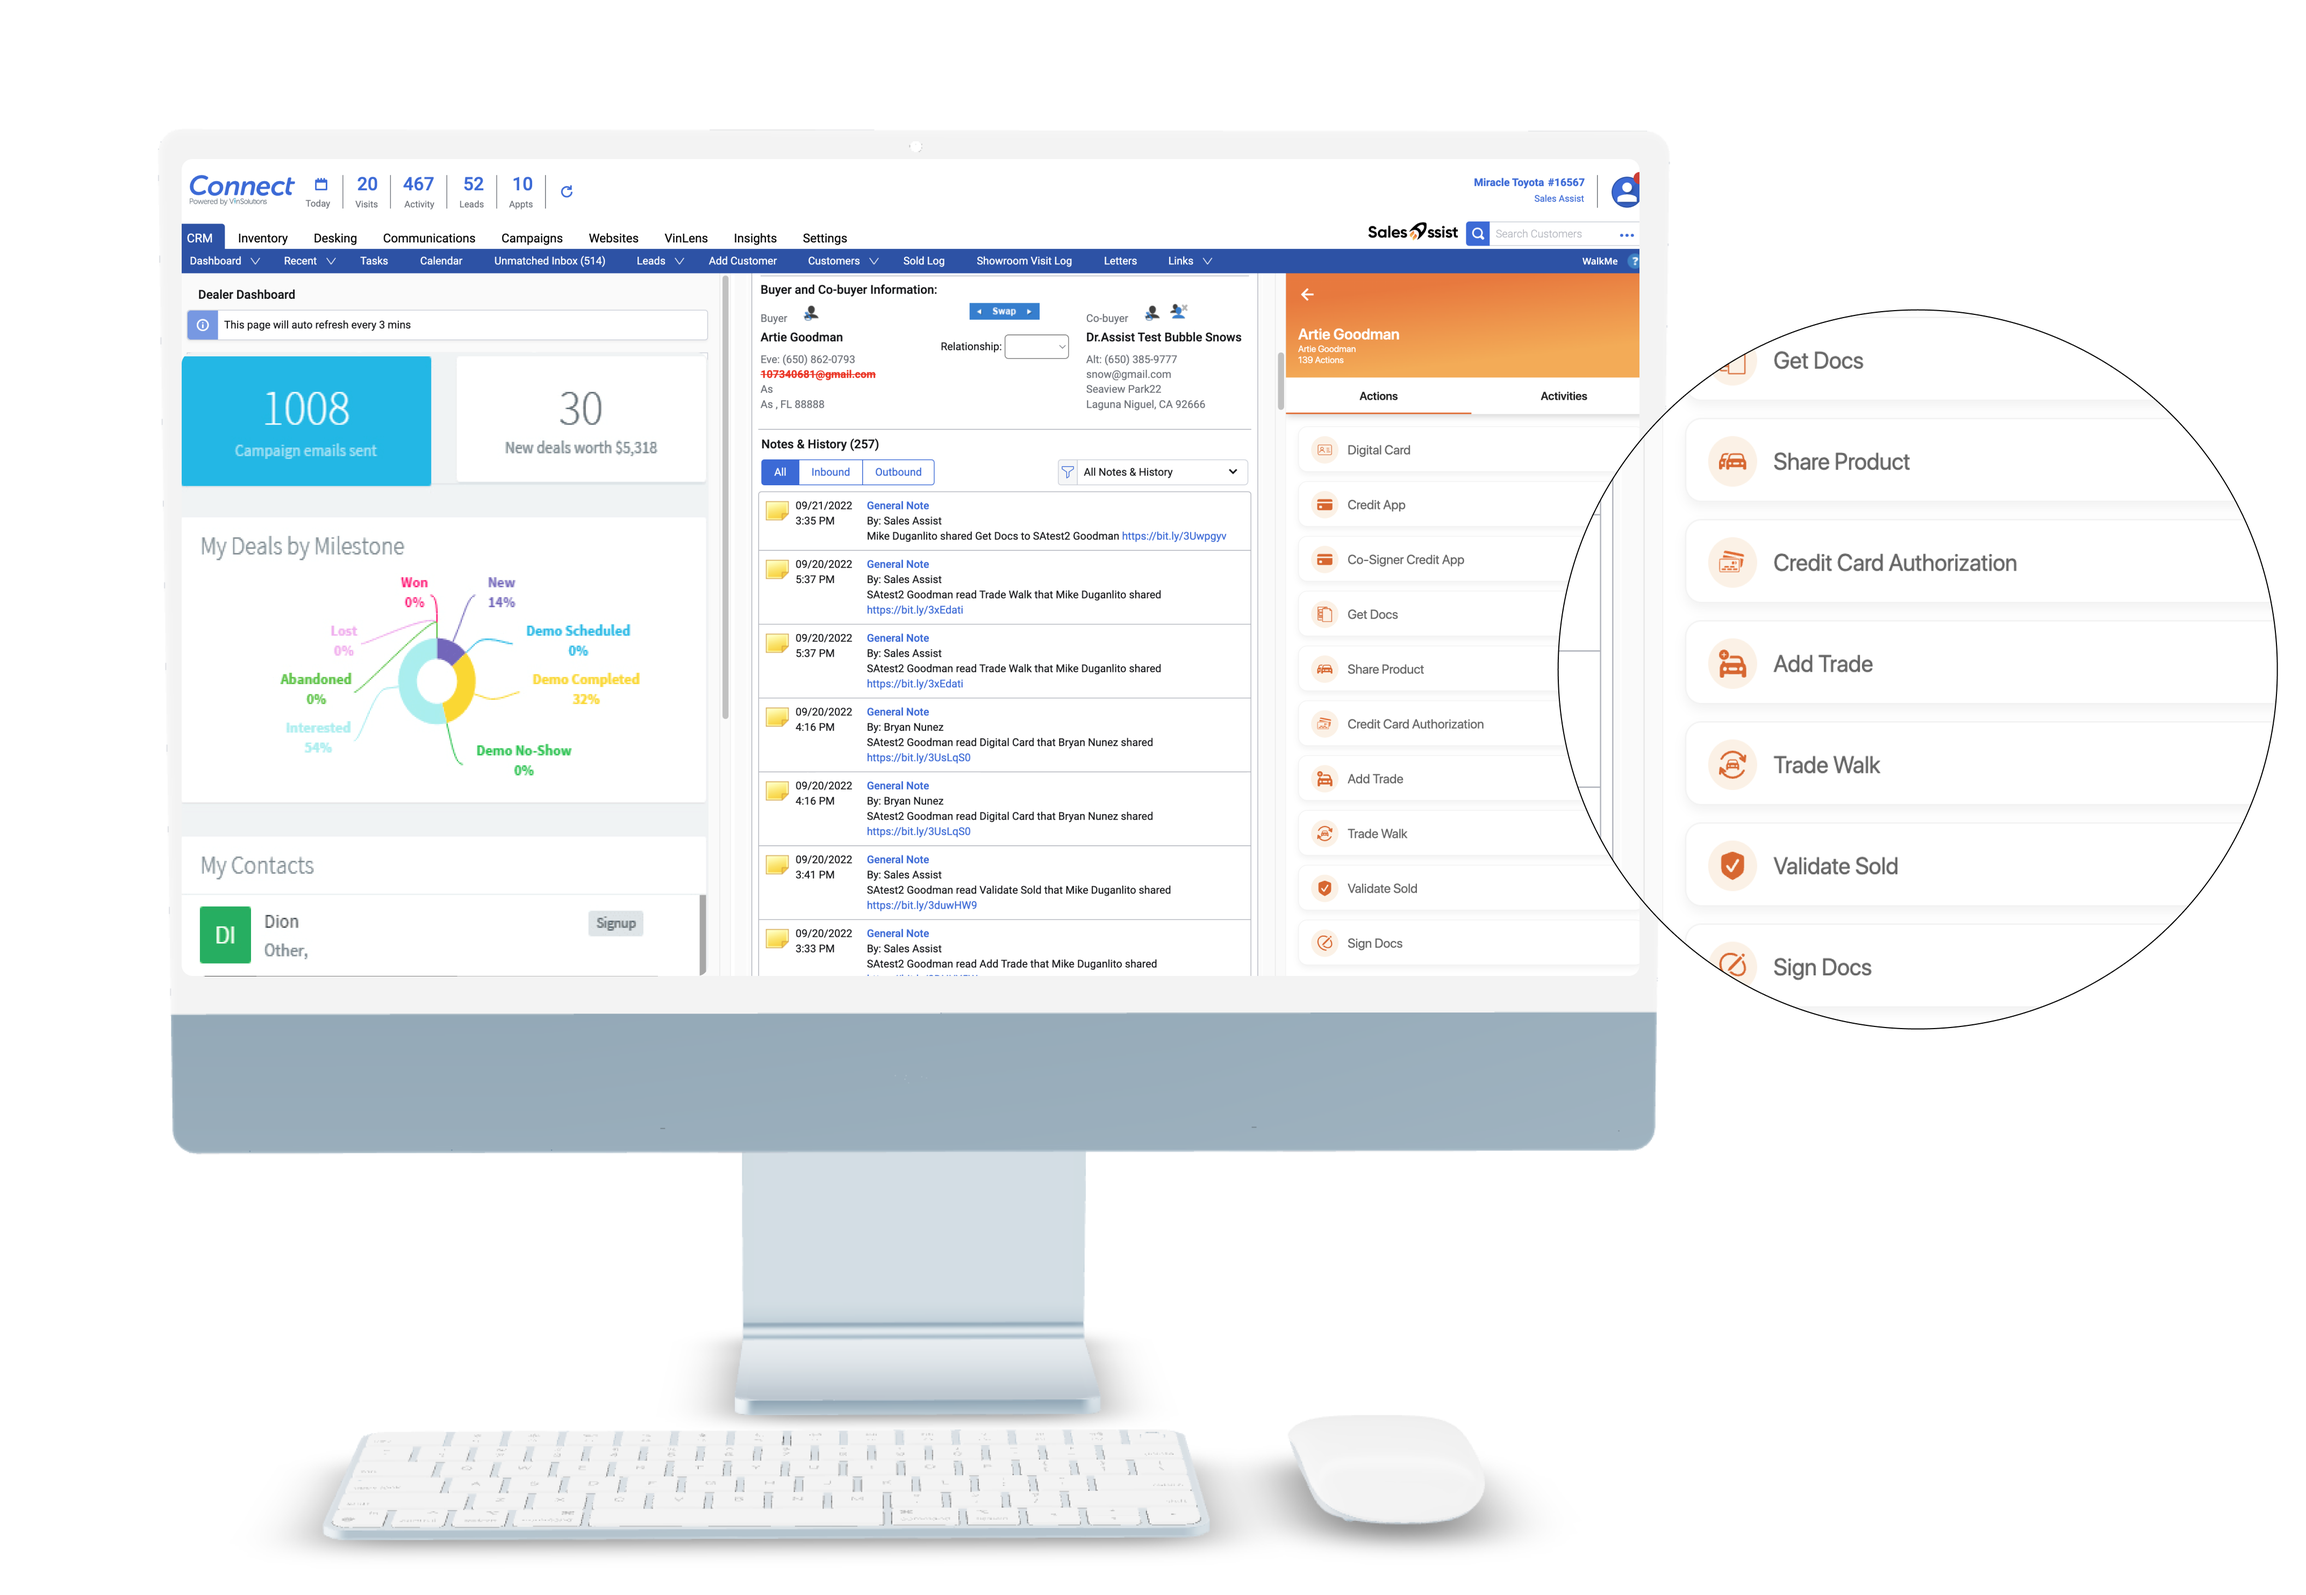
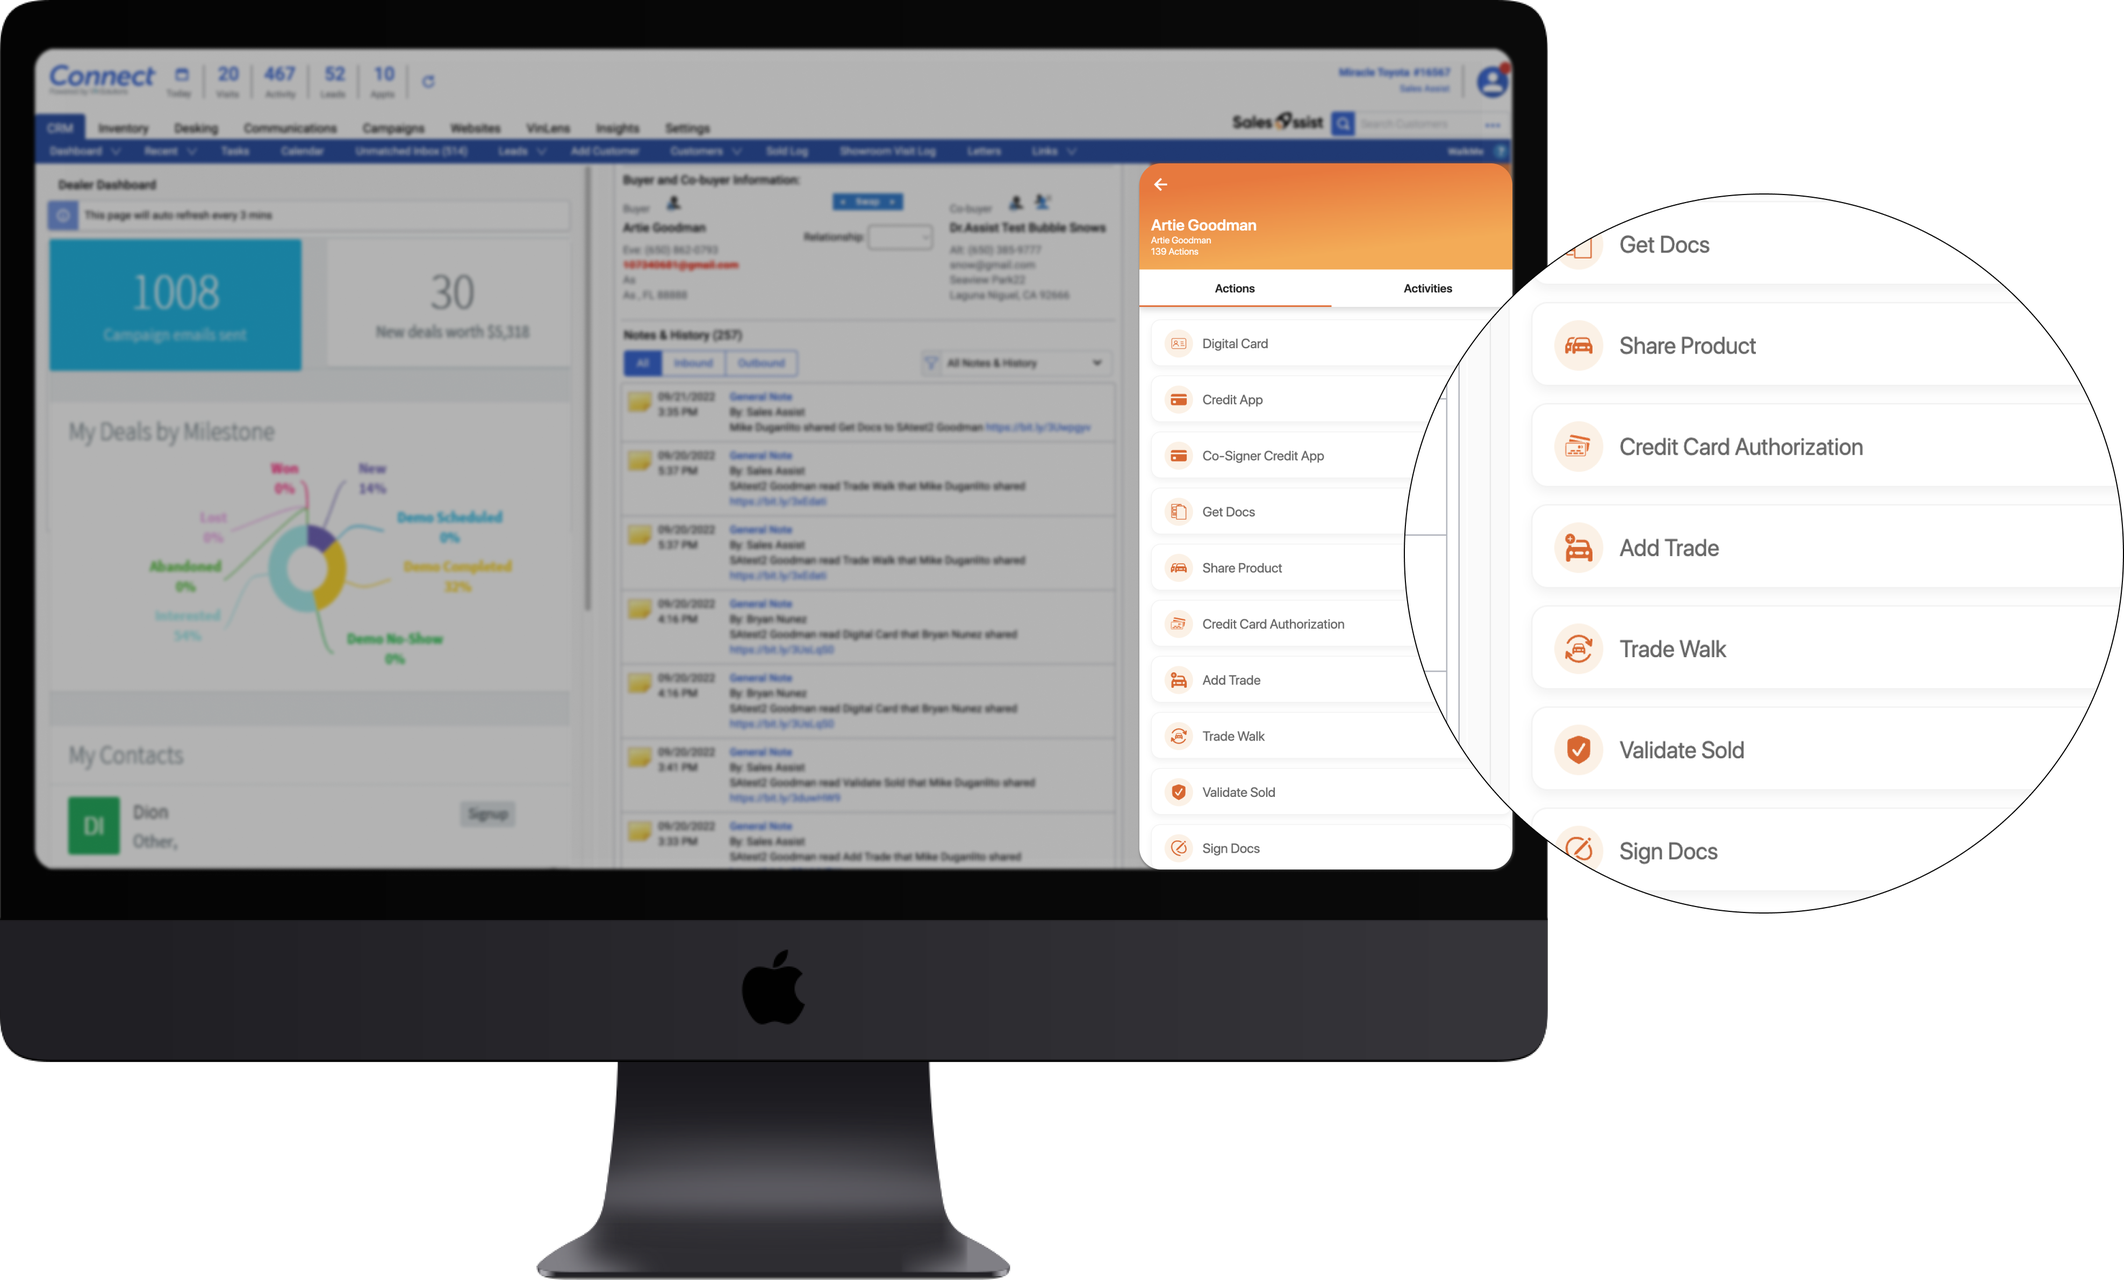
fix: several copy and image updates

diff --git a/src/sections/home-page/Cover/index.tsx b/src/sections/home-page/Cover/index.tsx
@@ -13,30 +13,29 @@ export const Hero: React.FC<HeroProps> = ({ heroData }) => {
   const words = useRef<string[]>(heroData.modules);
 
   useEffect(() => {
-    const time = setTimeout(() => {
-      if (currentModule === (words.current.length - 3)) {
-        words.current = [...words.current, ...heroData.modules]
+    const time = setInterval(() => {
+      divRef.current?.scrollTo(0, (divRef.current?.children[currentModule] as any)?.offsetTop || 0);
+      setCurrentModule(currentModule + 1);
+      if (currentModule === heroData.modules.length - 1) {
+        setCurrentModule(0);
       }
-      setCurrentModule(currentModule + 1)
-      divRef.current?.scrollTo(0, (divRef.current?.children[currentModule] as any).offsetTop)
     }, 2000);
 
     return () => {
-      clearTimeout(time);
+      clearInterval(time);
     }
-  }, [currentModule, heroData.modules, words]);
-
+  });
 
   return (
-    <header className='flex flex-col bg-white-soft h-full mx-auto pb-12 max-w-4xl'>
+    <header className='flex flex-col bg-white-soft h-full mx-auto pb-20 max-w-4xl'>
       <Section className='px-0'>
         <div className='flex justify-center flex-col gap-6'>
           <div className='flex flex-col pb-6'>
             <h1 className='text-4xl md:text-6xl lg:text-7xl'>{heroData.hero.upper_message}</h1>
             <div className='flex flex-row gap-4'>
               <h1 className='text-4xl md:text-6xl lg:text-7xl text-orange-normal font-normal'>{heroData.hero.lower_message}</h1>
-              <div ref={el => divRef.current = el} className='overflow-hidden gap-6 flex flex-col h-[40px] md:h-[65px] lg:h-[80px] slices'>
-                {words.current.map((m, i) => <h1 key={m + i} className='text-orange-normal text-4xl md:text-6xl lg:text-7xl slice'>{m}</h1>)}
+              <div ref={el => divRef.current = el} className='overflow-hidden relative gap-6 flex flex-col h-[40px] md:h-[65px] lg:h-[80px] slices'>
+                {heroData.modules.map((m, i) => <h1 key={m + i} className='text-orange-normal text-4xl md:text-6xl lg:text-7xl slice'>{m}</h1>)}
               </div>
             </div>
           </div>

diff --git a/src/sections/WhySalesAssist/SimplifySales.tsx b/src/sections/WhySalesAssist/SimplifySales.tsx
@@ -63,11 +63,11 @@ export const WhySalesAssistSimplifySales: React.FC<Section<WhySalesAssistSimplif
         <div className="flex-grow gap-6 md:gap-12 flex flex-col">
           <div className="p-2 flex w-full justify-between items-center gap-4">
             <button className={getClasses(0)} onClick={clickOnCard(0)}>1 <span className="hidden md:block">. {data.options.select}</span></button>
-            <div className="w-1/6 h-1 rounded-full bg-white-normal/25 overflow-hidden">
+            <div className="w-[10%] h-1 rounded-full bg-white-normal/25 overflow-hidden">
               {currentStep.current === 0 && <div style={{ transform: `translateX(${-progressLeft}%)` }} className='bg-orange-link w-full h-full rounded-full'></div>}
             </div>
             <button className={getClasses(1)} onClick={clickOnCard(1)}>2 <span className="hidden md:block">. {data.options.customize}</span></button>
-            <div className="w-1/6 h-1 rounded-full bg-white-normal/25 overflow-hidden">
+            <div className="w-[10%] h-1 rounded-full bg-white-normal/25 overflow-hidden">
               {currentStep.current === 1 && <div style={{ transform: `translateX(${-progressLeft}%)` }} className='bg-orange-link w-full h-full rounded-full'></div>}
             </div>
             <button className={getClasses(2)} onClick={clickOnCard(2)}>3 <span className="hidden md:block">. {data.options.add}</span></button>

diff --git a/src/sections/WhySalesAssist/Hero.tsx b/src/sections/WhySalesAssist/Hero.tsx
@@ -13,12 +13,12 @@ export const WhySalesAssistHero: React.FC<Section<WhySalesAssistHeroSection>> = 
           <h1 className='text-gray-primary md:text-4xl font-bold mb-6'>{data.title}</h1>
           <p className='mx-auto md:px-6 text-gray-secondary text-sm md:text-base max-w-5xl'>{data.desc}</p>
         </div>
-        <div className='relative overflow-x-auto overflow-y-hidden w-full flex gap-2 lg:items-center lg:justify-center pb-12'>
+        <div className='relative overflow-x-auto overflow-y-hidden w-full flex gap-5 lg:items-center lg:justify-center pb-12'>
           {/* list of things here */}
           {
             data.reasons.map(singleCard => {
-              return <div className='block lg:w-1/5' key={singleCard.code}>
-                <div className='p-4 rounded-md w-[15rem]  h-52 bg-white-normal'>
+              return <div key={singleCard.code}>
+                <div className='p-4 rounded-md w-[15rem] h-52 bg-white-normal'>
                   <div className='w-12 h-12 rounded-full'>
                     {buildIcon({ data: whySalesAssistHero, code: singleCard.code, fallback: <></> })}
                   </div>

diff --git a/src/sections/home-page/completion-tools/index.tsx b/src/sections/home-page/completion-tools/index.tsx
@@ -4,7 +4,7 @@ import { CompletionToolsScreenshot } from '@src/assets';
 
 export const CompletionTools: React.FC = () => {
   return (
-    <section className='section bg-white-normal'>
+    <section className='section bg-white-normal !pb-0'>
       <Section className='flex flex-col gap-6'>
         <h1>
           All the Sales Completion Tools Accessible Within Your CRM
@@ -13,9 +13,7 @@ export const CompletionTools: React.FC = () => {
           Have a complete arsenal of every possible sales completion tool in a single panel, right from your CRM.
           Whether you use our off-the-shelf completion tools, add your existing ones, or mix and match, we&rsquo;ve got you covered.
         </h4>
-        <div className='drop-shadow-sa text-center max-w-[1100px] mx-auto'>
-          <Image alt='Completion Tools' src={CompletionToolsScreenshot} className='rounded-[20px] ' />
-        </div>
+        <Image alt='Completion Tools' src={CompletionToolsScreenshot} className='rounded-[20px] ' />
       </Section>
     </section>
   )

diff --git a/src/components/Nav/index.tsx b/src/components/Nav/index.tsx
@@ -22,7 +22,7 @@ interface NavProps {
 export const Nav: React.FC<NavProps> = ({ className }) => {
     const { isDesktop } = useResponsive();
     const router = useRouter();
-    const classes = classNames('py-6 container max-w-[1200px] mx-auto lg:mb-[3em] flex-col lg:flex-row flex justify-between relative px-4 md:px-0', className)
+    const classes = classNames('py-6 container max-w-[1200px] mx-auto lg:mb-[5em] flex-col lg:flex-row flex justify-between relative px-4 md:px-0', className)
     const [isOpen, setIsOpen] = useState<boolean>(false);
     const handleSideBar = () => setIsOpen(!isOpen);
 

diff --git a/src/sections/WhySalesAssist/customers/index.tsx b/src/sections/WhySalesAssist/customers/index.tsx
@@ -17,7 +17,7 @@ export const Customers: React.FC = () => {
             verify, pay, choose, etc., whatever is needed to complete the sale.
           </h4>
         </div>
-        <div className='shrink-0 w-96 h-96 md:w-[440px] md:h-[360px] rounded-lg drop-shadow-sa overflow-hidden'>
+        <div className='shrink-0 w-96 h-96 md:w-[440px] md:h-[345px] rounded-lg drop-shadow-sa overflow-hidden'>
           <Image alt='Simple to Use by Customers Example' src={SimpleToUseByCustomers} />
         </div>
       </Section>

diff --git a/src/components/section/index.tsx b/src/components/section/index.tsx
@@ -4,7 +4,7 @@ interface SectionProps {
     className?: string
 }
 export const Section: React.FC<React.PropsWithChildren<SectionProps>> = ({ children, className }) => {
-  const classes = classNames("container mx-auto px-4", className)
+  const classes = classNames("container mx-auto px-4 md:px-0", className)
   return (
     <div className={classes}>{children}</div>
   )
